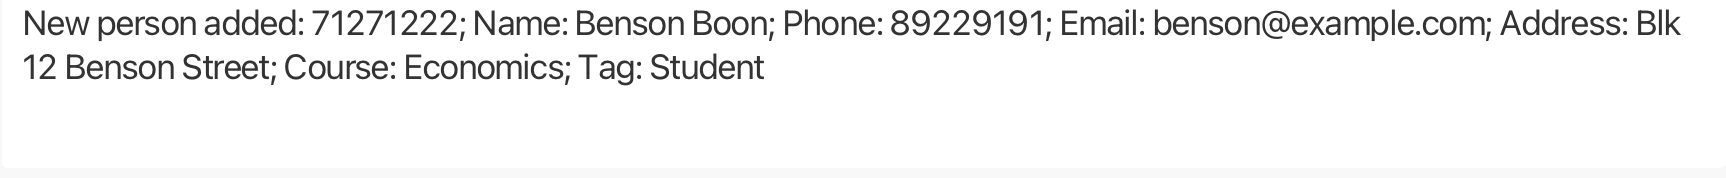
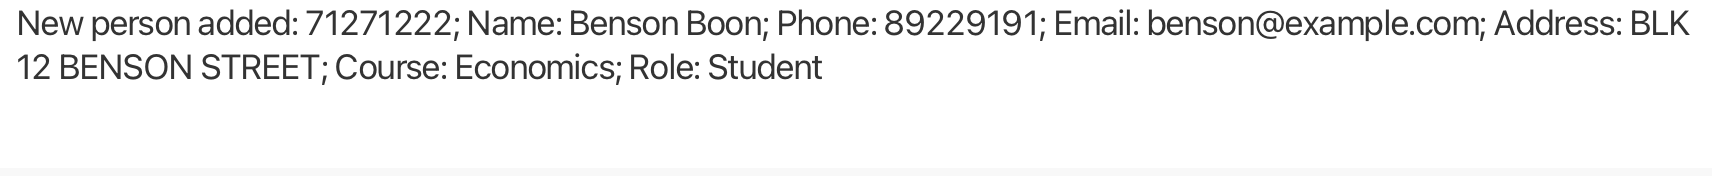
Fix UG related errors from PE-D

Changed region(s): [[0.0, 0.0568, 0.9907, 0.2273], [0.0, 0.2841, 0.4953, 0.483]]

diff --git a/docs/UserGuide.md b/docs/UserGuide.md
@@ -123,6 +123,23 @@ EduContacts is a **desktop app for educators in tertiary institutions to manage 
 6. Refer to the [Features](#features) below for details of each command.
 
 --------------------------------------------------------------------------------------------------------------------
+
+## Summary of a `Person`
+
+This table will explain the fields that a `Person` in EduContacts possesses and its respective constraints. Each person
+in EduContacts is assumed to be Singaporean. All fields should not be blank upon the initialisation of a Student, except for `Module`.
+
+Field      | Details
+-----------|----------------------------------------------------------------------------------------------------------------------------------------------------------------------
+**StudentID**   | The StudentID that belongs to the `Person`. The input for this field can only contain digits and should be exactly 8 digits long. <br><br> This field also serves as the unique identifier for a `Person`.
+**Name**   | The name that belongs to the `Person`. The input for this field can only contain alphanumeric characters.
+**Course** | The course that the `Person` studies. The input for this field can only contain alphabetical characters.
+**Email**  | The email that belongs to the `Person`. The input for this field should be of the format local-part@domain. <br><br> The local-part should only contain alphanumeric characters and these special characters: `+ _ . -` The local-part may not start or end with any special characters. This is followed by a '@' and then a domain name. <br><br> The domain name is made up of domain labels separated by periods. <br><br> The domain name must: <br> - End with a domain label at least 2 characters long <br> - Have each domain label start and end with alphanumeric characters <br> - Have each domain label consist of alphanumeric characters, separated only by hyphens, if any.
+**Address**   | The address that belongs to the `Person`. The first character for the input for this field can only contain alphanumeric characters and these special characters: `# , -`. <br><br> After the first character, any additional characters are allowed, including whitespace and further text.
+**Phone Number**  | The phone number that belongs to the `Person`. The input for this field can only contain digits and must at least be 8 digits long.
+**Module** | A module that the `Person` takes. A `Person` can have multiple modules. The input for this field can only contain alphanumeric characters. <br><br> A module can also be assigned a `Grade`, which must be one of the following: must be one of the following: `A+, A, A-, B+, B, B-, C+, C, D+, D, F`
+**Role**   | The role assigned to the `Person`. A person can either be a "Student" or "Tutor".
+--------------------------------------------------------------------------------------------------------------------
 <div style="page-break-after: always;"></div>
 
 ## Features
@@ -163,7 +180,8 @@ help
 ```
 
 The help window will display the help message as shown in the screenshot below:
-![help message](images/helpMessage.png)
+<img src="images/helpMessage.png" alt="help message" width="500" height="auto">
+
 Alternatively, you can click the button on the top right hand corner as indicated here:
 ![alternative_help](images/alternativeHelp.png)
 
@@ -213,7 +231,7 @@ Examples:
 * `module 12345678 m/GEA1000` will add a module `GEA1000` to a person with student ID of `12345678`.
 * `module 13131313 m/CS2103T` will add a module `CS2103T` to a person with student ID of `13131313` (the response message of this command is shown in the screenshot below).
 
-  ![result for 'add module result'](images/addModule.png)
+  ![result for 'add module result'](images/addModuleResult.png)
 
 <br>
 
@@ -233,7 +251,7 @@ edit ID [FIELD_TO_EDIT_PREFIX] [NEW_VALUE]
 
 Examples:
 *  `edit 12345678 m/CS2103T CS2101` will edit a person with student ID of `12345678` by replacing the old module `CS2103T` with the new module `CS2101`.
-*  `edit 12121212 c/Computer Science` will edit a person with student ID of `12121212` by editing their course to `Computer Science` (the response message of this command is shown in the screenshot below).
+*  `edit 12345678 c/Computer Science` will edit a person with student ID of `12345678` by editing their course to `Computer Science` (the response message of this command is shown in the screenshot below).
 
    ![result for 'edit command result'](images/editCommandResult.png)
 
@@ -297,8 +315,8 @@ Examples:
 * `filter m/CS2103T` will return a list of all persons with module `CS2103T`.
 * `filter c/Computer Science` will return a list of all persons with course `Computer Science`.
 * `filter n/alex david` will return a list of all persons with `alex` or `david` in their name e.g.  `Alex Yeoh`, `David Li` (the result of this command is shown in the screenshot below).
+  <img src="images/filterAlexDavidResult.png" alt="filter alex david" width="600" height="auto">
 
-  ![result for 'find alex david'](images/filterAlexDavidResult.png)
 <br>
 
 <box type="info" seamless>
@@ -322,7 +340,7 @@ delete ID
 
 Examples:
 * `delete 15151515` will delete a person with student ID of `15151515` from EduContacts.
-* `delete 71271222` will delete a person with student ID of `71271222` from EduContacts (the response message of this command is shown in the screenshot below).
+* `delete 12345678` will delete a person with student ID of `12345678` from EduContacts (the response message of this command is shown in the screenshot below).
 
   ![result for 'delete_71271222'](images/deleteCommandResult.png)
 
